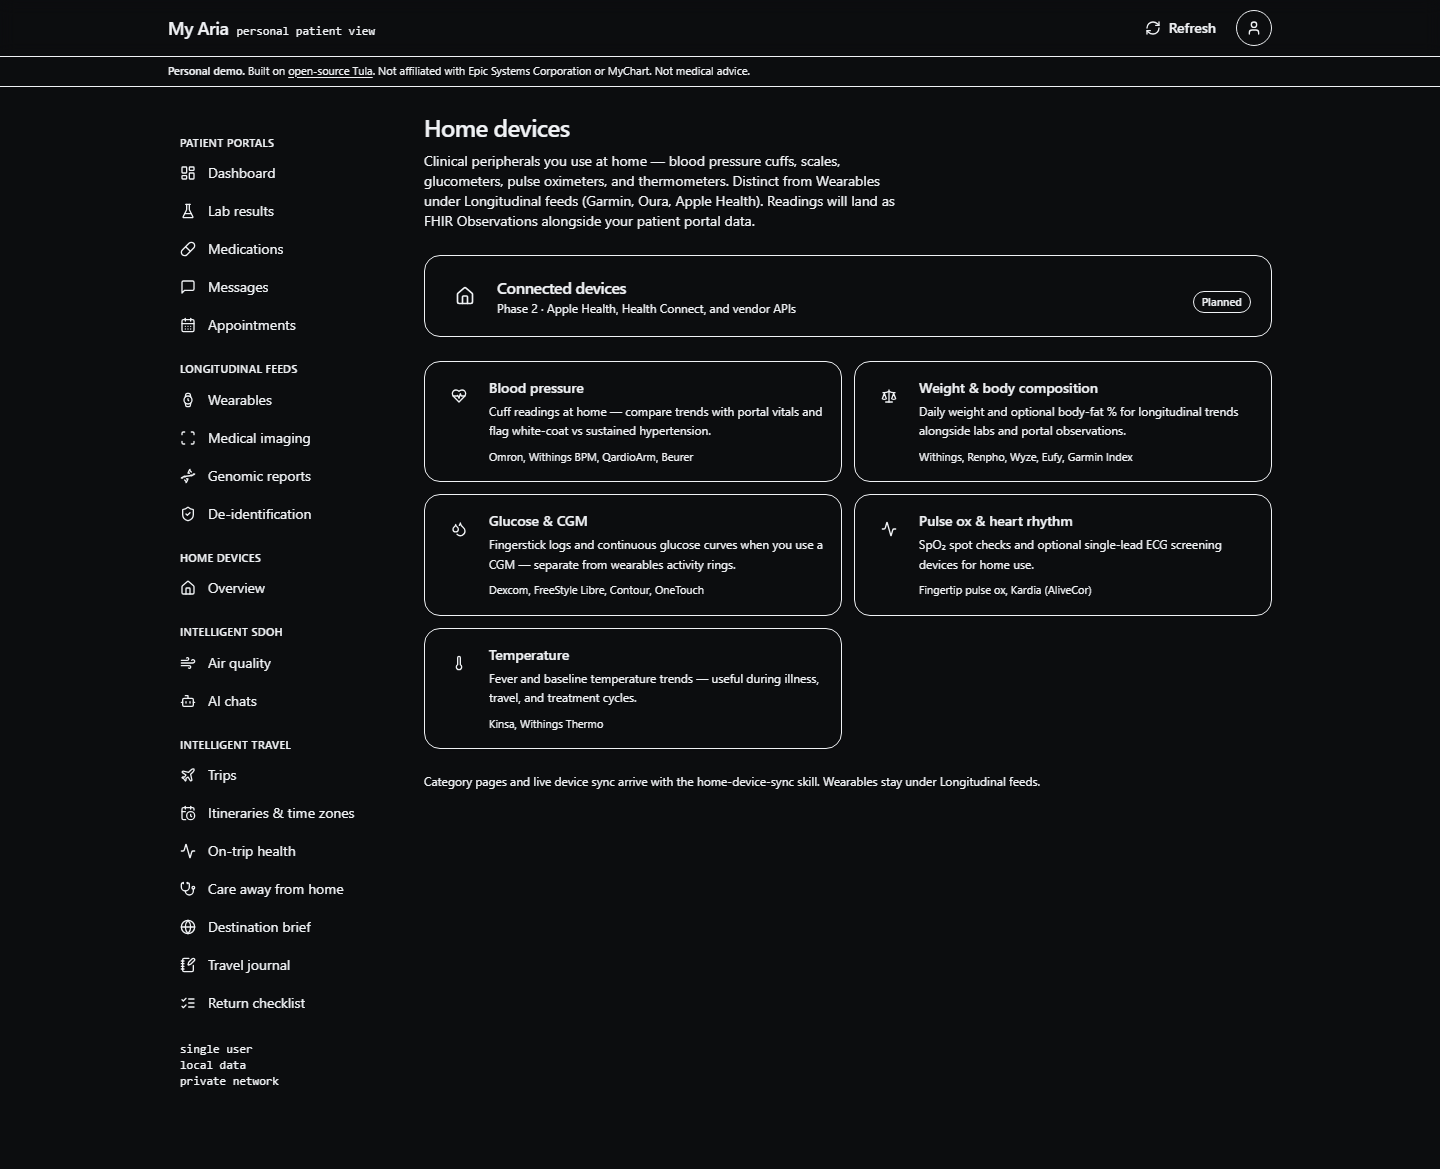
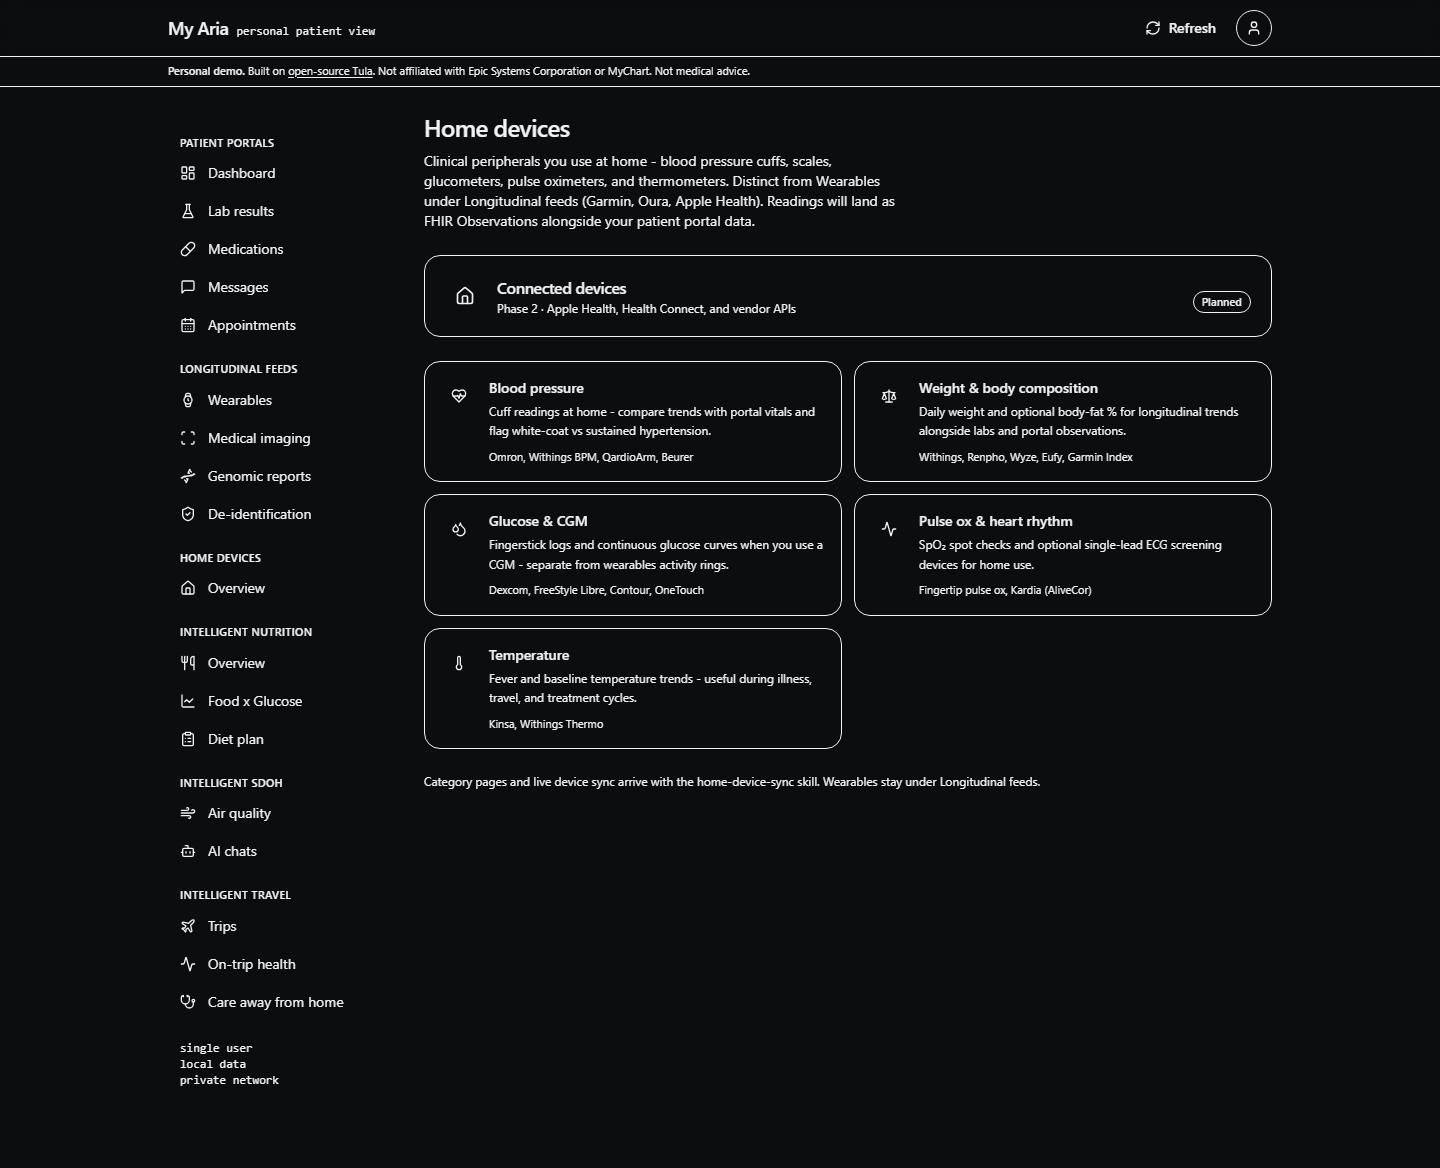
articles + apps/my-aria: refresh marketing for sidebar + typography updates
Sidebar paragraph in the patient-portal article now describes the current
layout: a new Intelligent Nutrition bullet (Overview / Food x Glucose /
Diet plan, MyFitnessPal-fed) and the trimmed Intelligent Travel set
(Trips hub / On-trip health / Care away from home, with the planning
surfaces one click deep). Prose length 1,539 words.

Re-captured both screenshots against a production build so the dev-tools
indicator stays absent and the rendered sidebar matches the prose. The
home-devices PNG also picks up the ASCII typography sweep from the
preceding source commit, so card descriptions like "Cuff readings at
home - compare trends..." no longer carry stray em-dashes.

diff --git a/articles/i-built-the-patient-portal-my-agent-deserves.md b/articles/i-built-the-patient-portal-my-agent-deserves.md
@@ -51,9 +51,11 @@ My Aria's left navigation is organized by **where data comes from**, not by whic
 
 ![My Aria - Home devices hub: one sidebar link opens five clinical-peripheral categories (blood pressure, weight, glucose, pulse ox, temperature), with a "Connected devices" planned card up top. Wearables stay under Longitudinal feeds.](../apps/my-aria/public/my-aria-home-devices.png)
 
+**Intelligent Nutrition** - MyFitnessPal feeds the meal log; Tula does the rest. Three slots: Overview (today's calories, macros, fiber, hydration), Food x Glucose (CGM curves overlaid with logged meals), and Diet plan (clinician-recommended pattern scored against actual intake). Food x Glucose earns its own sidebar slot because no patient portal does that correlation.
+
 **Intelligent SDOH** - Air quality and demographics by ZIP (demo fixtures today; AirNow and Census ACS tomorrow), plus **AI chats**: social-determinant signals extracted from agent conversations - transportation gaps, food insecurity, housing instability - with evidence strings and ICD-10 Z codes where they apply. The chat history is a social-determinant data source. Nobody's portal has a tab for that.
 
-**Intelligent Travel** - Business and personal trips as health perturbations: itineraries and time zones, on-trip vitals vs home baseline, care away from home, destination health briefs, travel journal, return checklist. Seven placeholder routes for now; I know the sidebar is long. Travel trims to three links once I have lived with it for a month. Home devices stayed a single hub so the menu does not scroll forever.
+**Intelligent Travel** - Business and personal trips as health perturbations. Three slots: Trips (the hub - itineraries, destination brief, travel journal, and return checklist live one click deep), On-trip health (wearable signals vs home baseline), and Care away from home (urgent care, pharmacy refills, telehealth in the ZIP you are in). Same compression pattern Home devices uses, so the menu does not scroll forever.
 
 Mobile keeps a bottom nav with only the five portal pages. The depth lives on desktop. That is the right trade for a power user building on a VM, with Cloudflare Access for caregivers later.
 